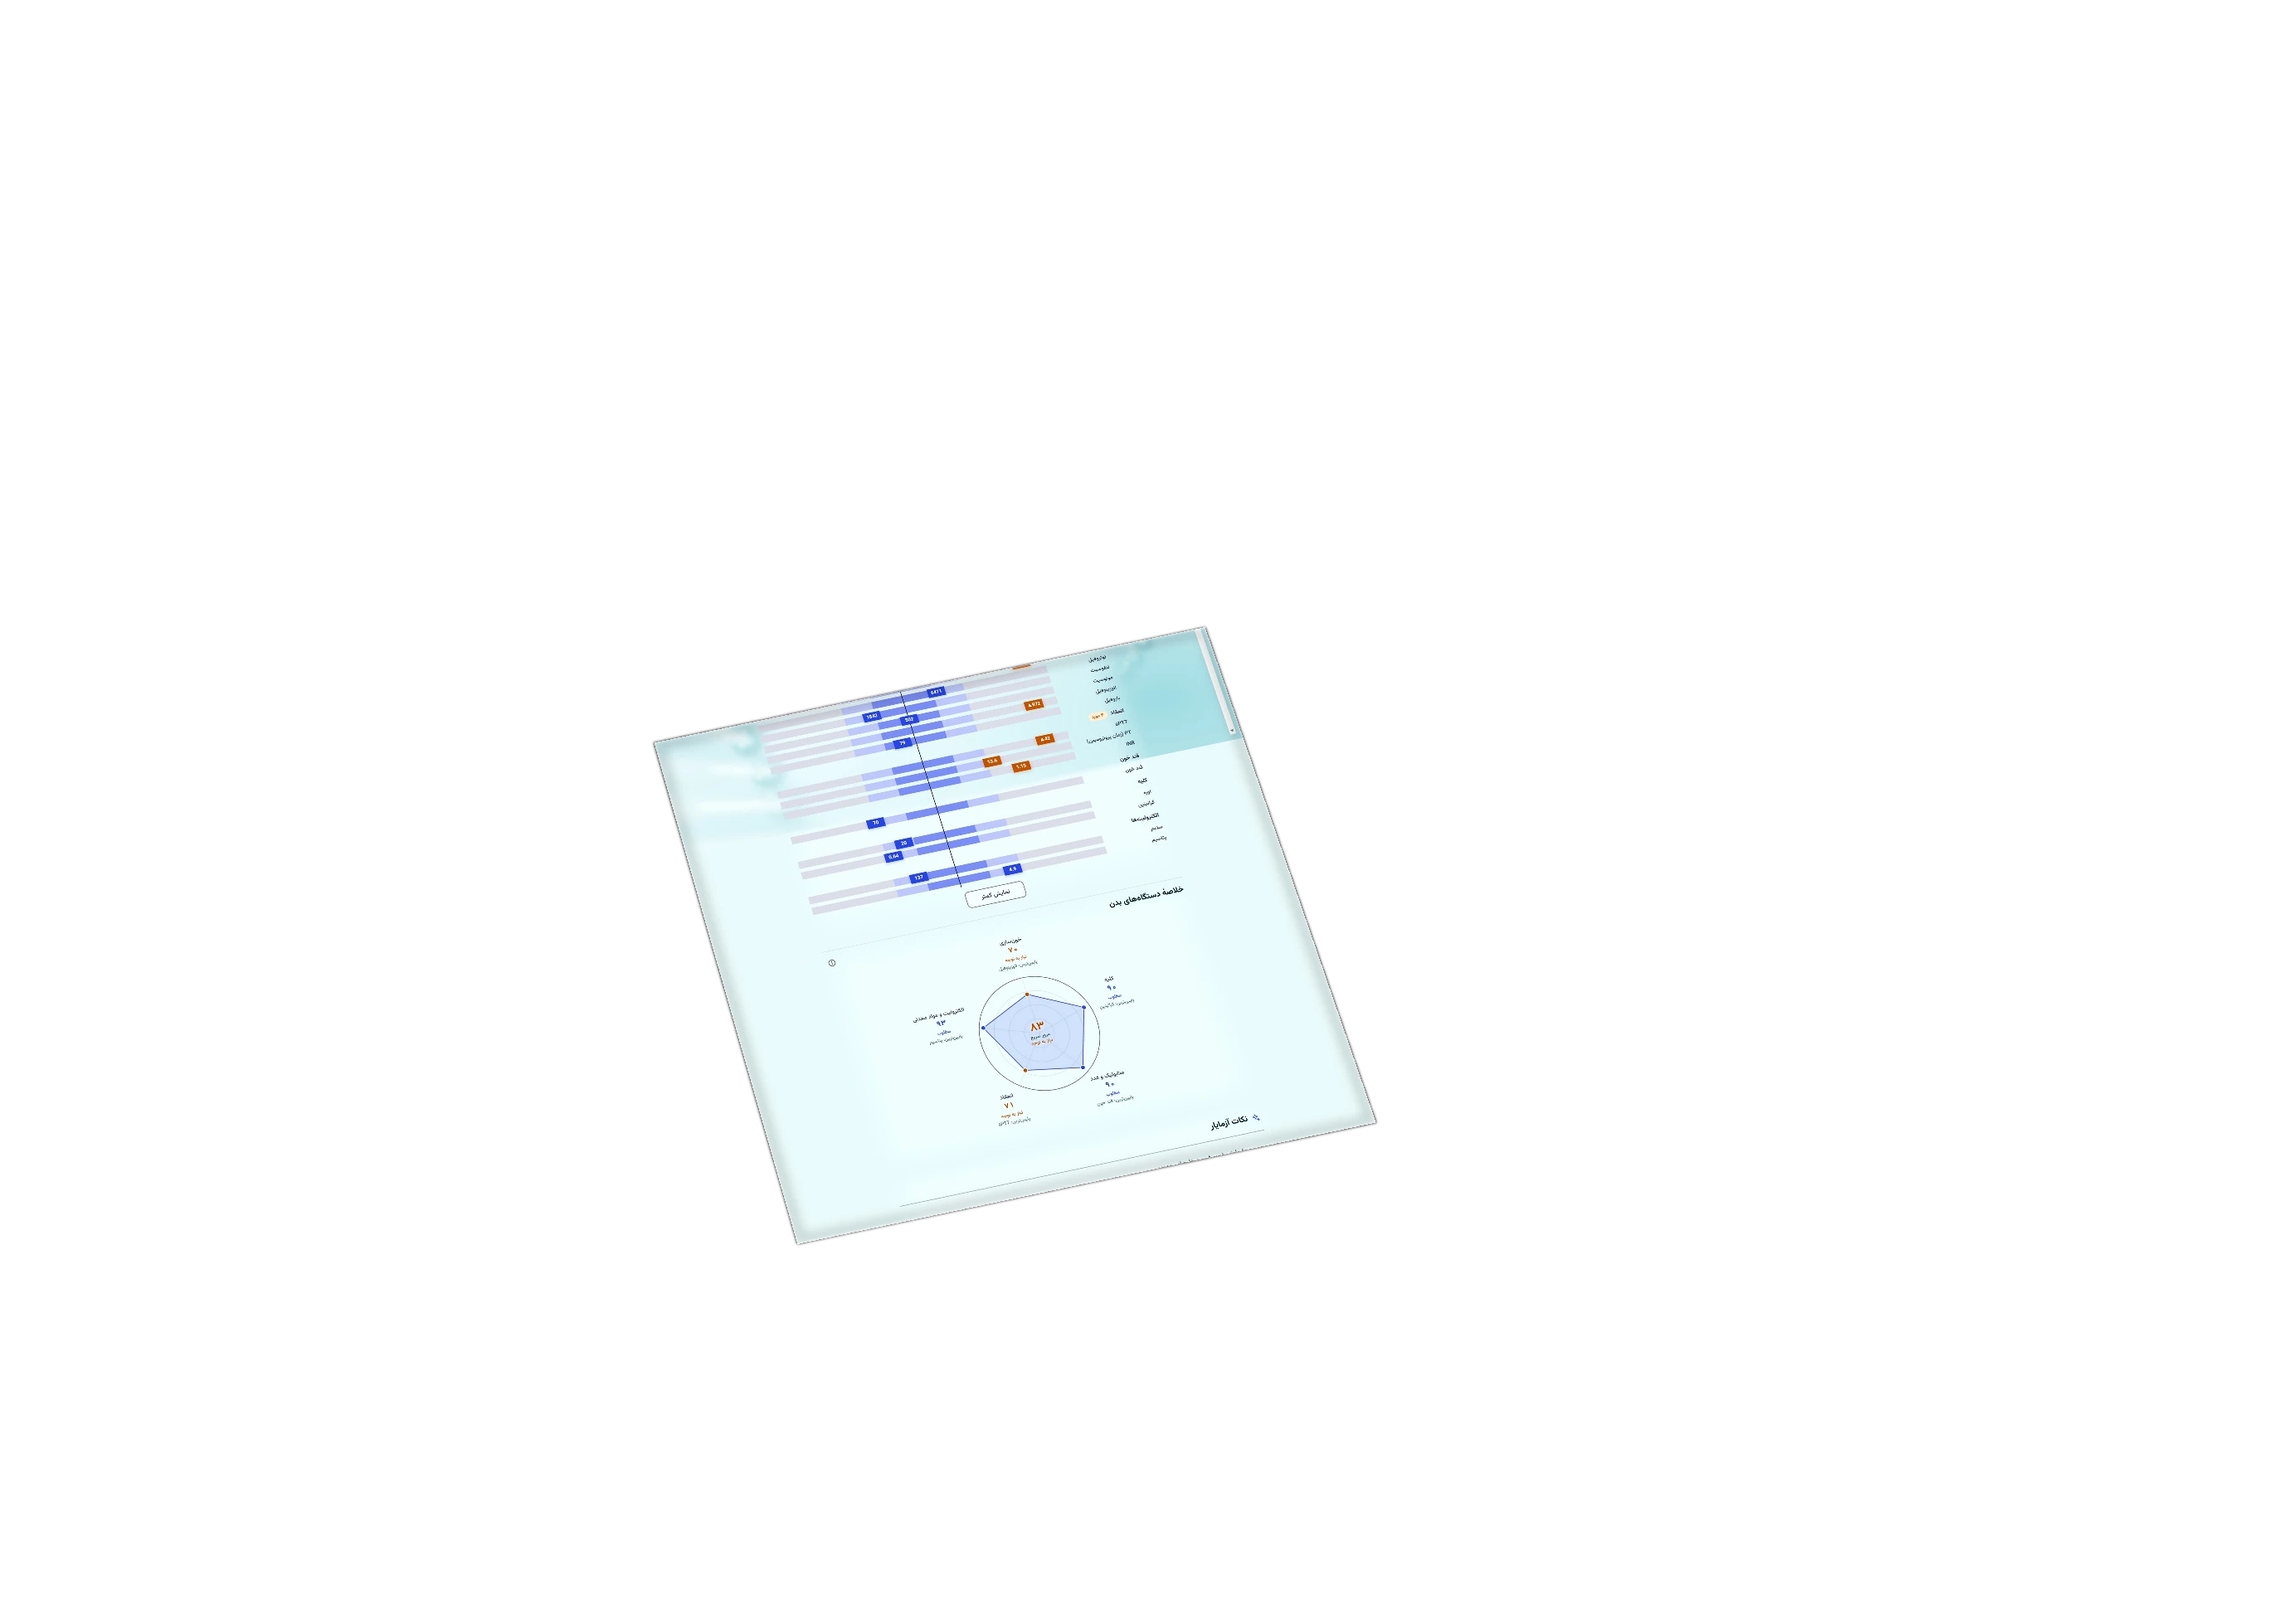
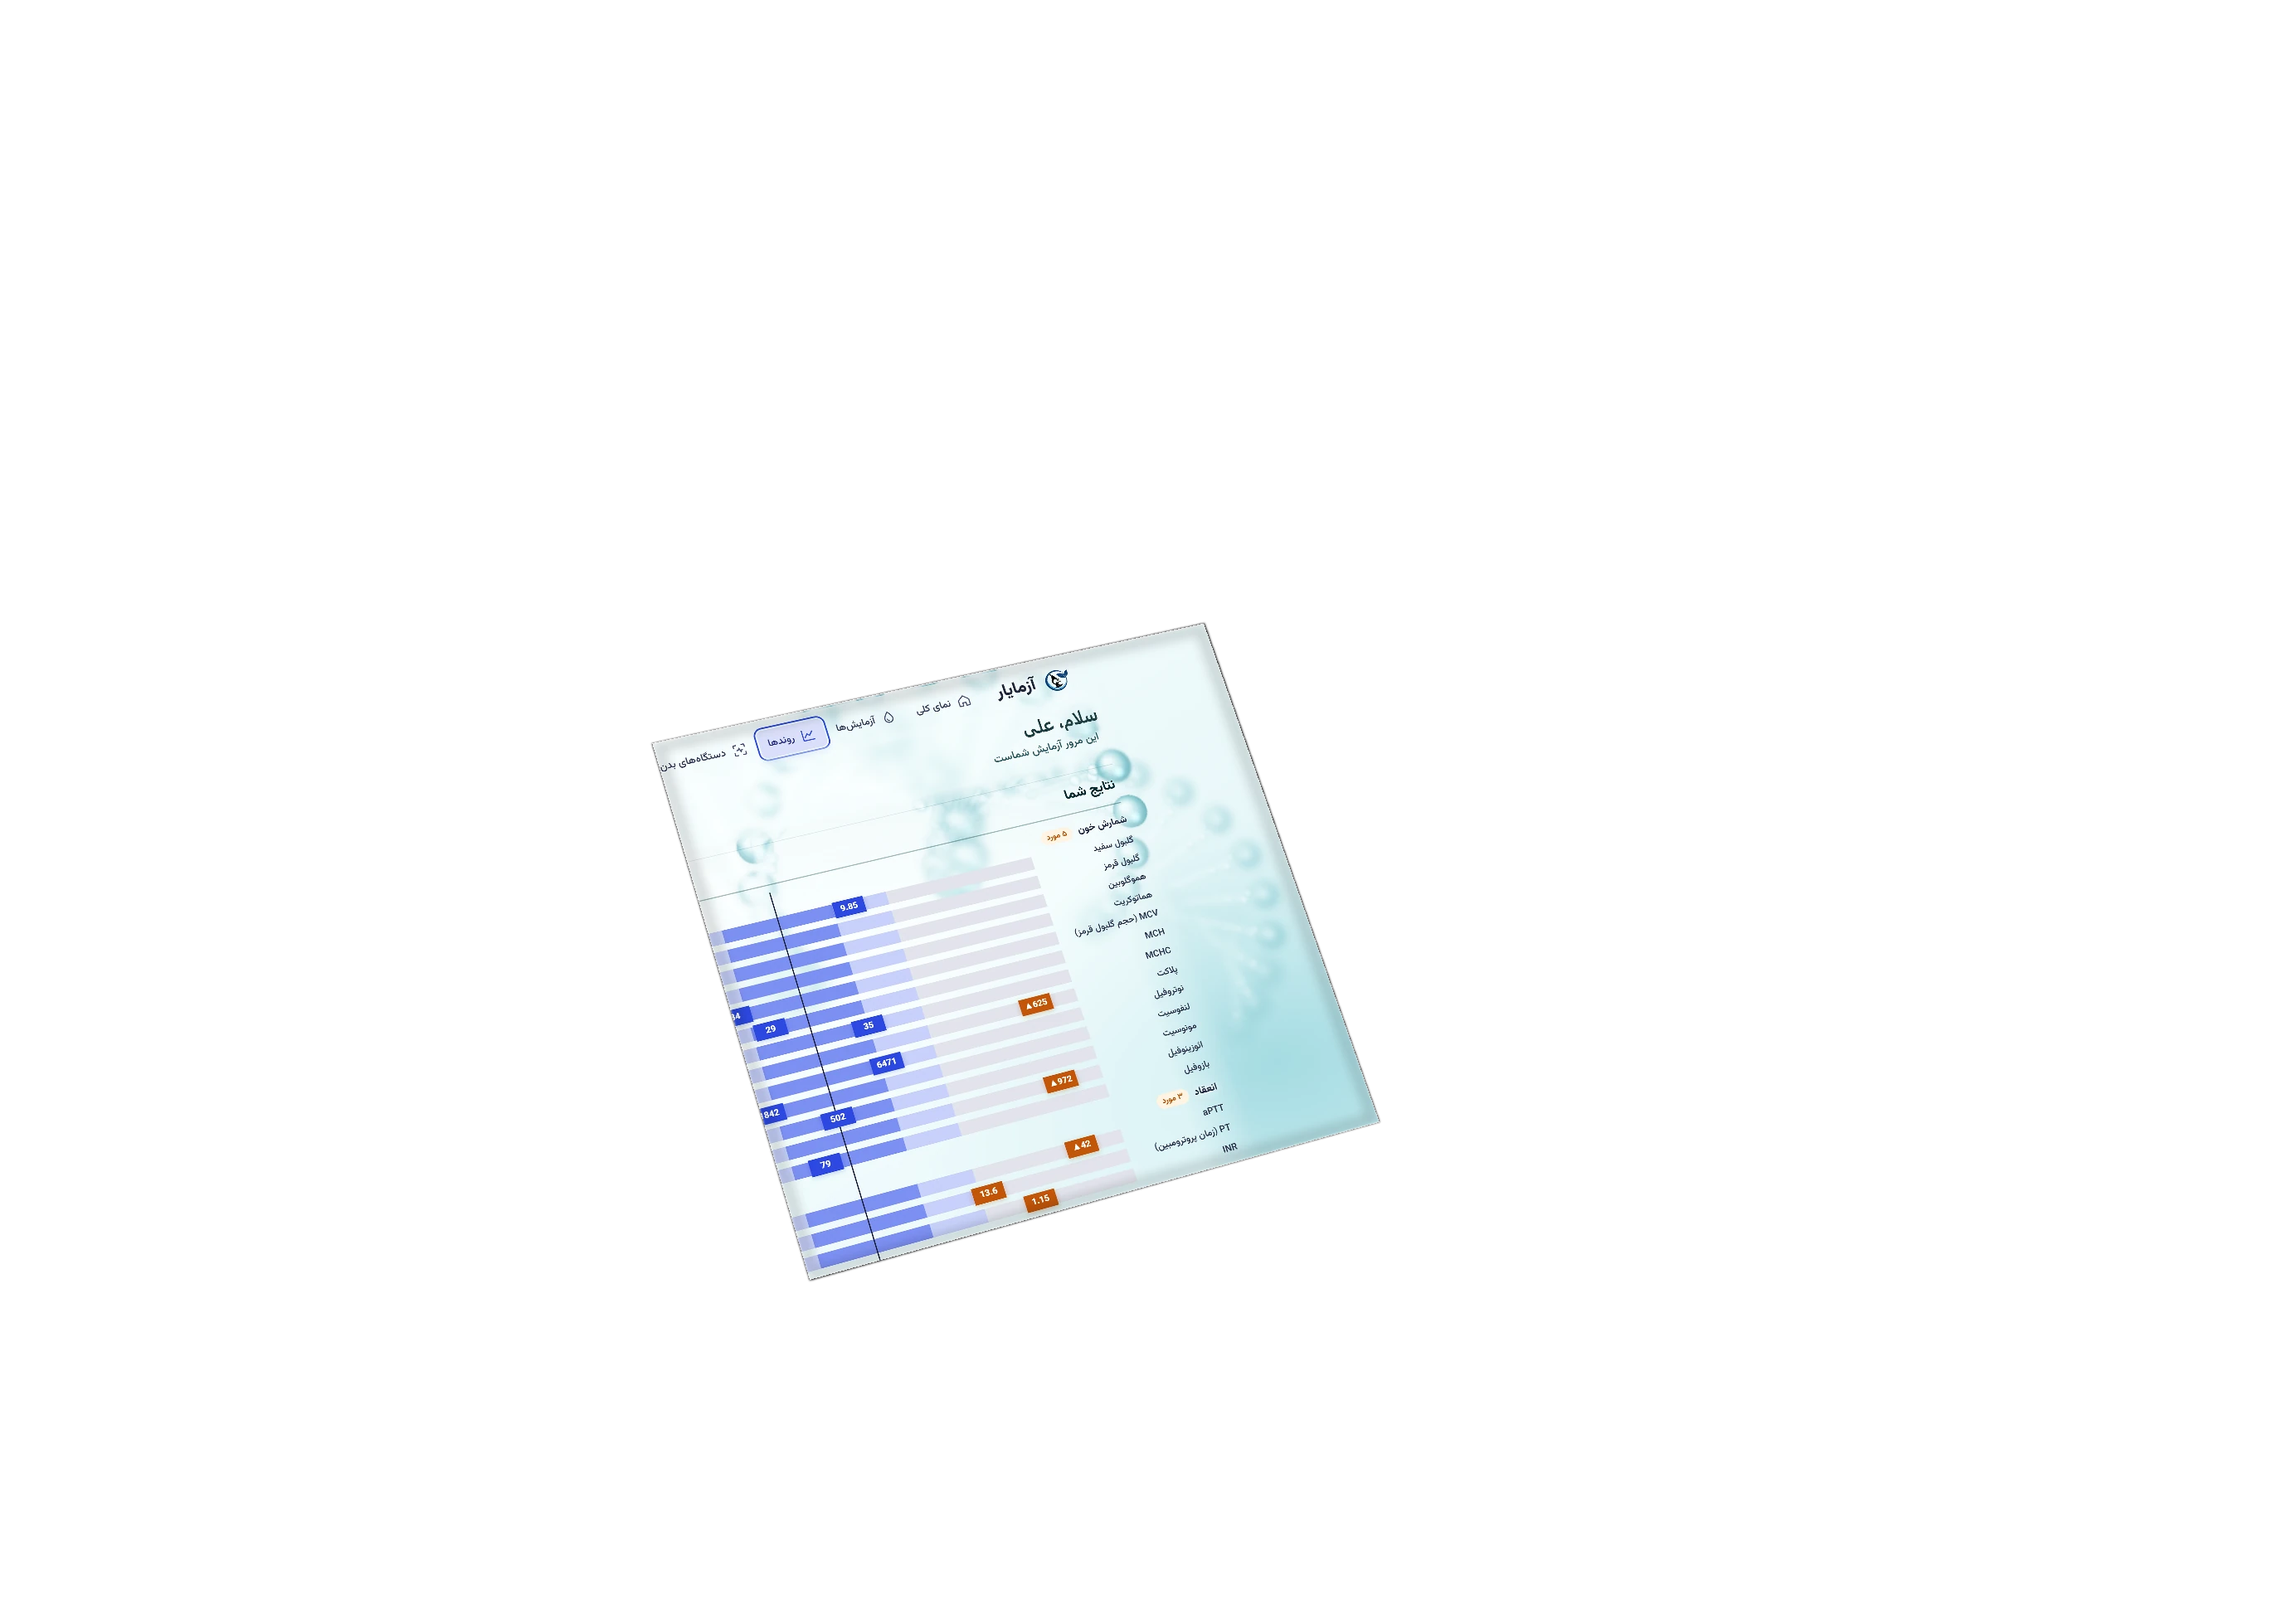
feat(landing): اسکرینشاتِ جدید روی تبلت — «سلام، علی»، زمینهٔ روشنتر و پردهٔ تماملبه
- منبع عوض شد: اسکرینشاتِ تازه (۲۶۵۰×۱۵۱۴) بهجای قبلی؛ برشِ ۱٫۰۶۲ = نسبتِ واقعیِ
  چهارگوشِ نمایشگر (اندازهگیریشده) تا تصویر تمامِ پرده را پر کند و جای خالی نماند
- نامِ بیمار: «h» پاک شد و «سلام، علی» با همان رنگ/وزن و پسزمینهٔ درونیابیشده دوباره
  نوشته شد (بازسازیِ گرادیانِ هاله تا درزِ مستطیلی دیده نشود)
- زمینه ۵۰٪ روشنتر: ترکیبِ نواحیِ روشن با سفید بهاندازهٔ ۵۰٪ (متن/میلهها دستنخورده)
- چهارگوش دوباره با جستوجوی بیرونیِ لبهٔ بزل و فیتِ خط اندازهگیری شد
  (۷۸۶,۸۹۶ · ۱۴۵۱,۷۵۱ · ۱۶۶۲,۱۳۵۲ · ۹۷۶,۱۵۴۳) + سایهٔ داخلیِ لبه
- باگِ لایه: `.lh-screen` با z-index:-1 زیرِ هالهٔ `.lh::after` میافتاد و رنگِ یشمی
  میگرفت؛ حالا z-index:1 (بالای هاله، زیرِ ستونِ متن که ۲ است)

Changed region(s): [[0.2812, 0.3733, 0.625, 0.8087]]

diff --git a/khanesh/src/site.css b/khanesh/src/site.css
@@ -1612,7 +1612,9 @@ a.site-test:hover { border-color: var(--brand); box-shadow: var(--sh-xs); }
 }
 /* پردهٔ تبلت — همان کادرِ .lh-bg، ولی رنگی و بیفیلتر تا صفحهٔ واقعی دیده شود */
 .lh-screen {
-  filter: none; z-index: -1; pointer-events: none; user-select: none;
+  /* z-index:1 — بالای هالهٔ .lh::after (که پسزمینهٔ یشمیِ هیرو را میسازد) و زیرِ
+     ستونِ متن (.lh-body = 2). با -1، هاله روی پردهٔ تبلت میافتاد و رنگ میگرفت. */
+  filter: none; z-index: 1; pointer-events: none; user-select: none;
   -webkit-mask-image: none; mask-image: none;
 }
 @media (max-width: 979px) { .lh-screen { display: none; } }
